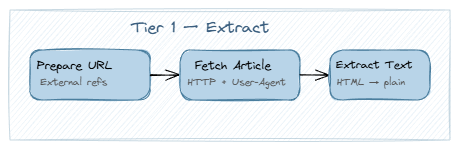
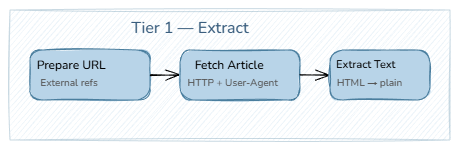
Updated the graphics based on the feedback

diff --git a/docs/README.md b/docs/README.md
@@ -1,8 +1,56 @@
+# Introduction
+
+Threat Intelligence is a fairly superfluous component to security for most individuals or organisations that are growing the security function. This is typically due to cost, scaling it into wider systems, or seeing the true value of running their own solution, when it is baked into anti-virus or provided by a Managed Detection and Response (MDR) provider.
+
+  
+
+This post outlines a modern solution to creating a scalable threat intelligence pipeline that does not compromise on functionality that organisations are implementing in this day and age. Whether you are looking to conduct solo research, proof-of-concept, or a larger team that has matured to the point of requiring a threat intelligence pillar to complement the security program, everyone should have access to threat intelligence at all stages of maturity.
+
+  
+
+The blog post is split into three sections:
+
+1. **System Requirements** - The section highlights the main system requirements of the implementation
+2. **Architecture** - The section focuses on the architectural view of the implementation, limitations, and potential adaptations that can fit into a wider ecosystem that has access to dedicated finances.
+3. **Implementation** - The section focuses on the implementation and the ideas behind each section in more detail
+4. **Technical Challenges** - The section discusses on the technical constraints and workarounds that were encountered during development
+5. **Bibliography** - This section provides hyperlinks to the resources used that aided in the development of this pipeline
+
+The split between the architectural layout and the implementation, is to entice all readers from leadership and design audiences through the architecture overview, as well as, the engineers and researchers who will are looking to use this as a foundation for their own implementation.
+
+All code and system files for the cognitive CTI project can be found at [github.com/jwhitt3r/cognitiveCTI](https://www.blogger.com/u/1/blog/post/edit/8882042398405863179/5023927187995908110?hl=en#).
+
+# System Requirements
+
+The motivation for this project sat with the idea of, could a self-hosted pipeline leveraging automation and artificial intelligence relate to systems built and maintained by an MDR (hey, they're the ones that actively enable this function at scale and sell it, what better role model). A number of constraints were placed on it, this is to ensure that it would enable any individual or teams to implement and adapt to meet the needs they may have. The following constraints were in place:
+
+- Self-hosted
+- Containers
+- Codified
+- Free (ignore electricity)
+- Modular
+
+The minimum resources used for this project, are:
+
+- 32GB RAM
+- GPU (for faster model processing)
+- Docker
+
+The system used in this project was:
+
+- Windows 11 Pro (For Hyper-V)
+- 128GB RAM
+- AMD Ryzen 7950X
+- Nvidia RTX 4070 Ti
+
+The GPU was only used to improve processing, extensive testing occurred using the CPU for its AI processing. However, it is encouraged that the GPU be used for actual more timely intel pipeline.
+
 # Architecture
 
 The following section provides a high-level architectural overview of the pipeline, its components, and how they interact with one another. The diagram is intentionally abstracted away from the implementation detail as to provide an accessible illustration of the system as to allow wider audiences with enough context to understand the system, its purpose, and where it can be adapted to fit into a wider ecosystem. The implementation sections that follow provide the detail for engineers and researchers looking to build on this foundation.
 
 Figure 1 illustrates the end-to-end flow from threat data collection through to output delivery of correlated and summarised threat intelligence.
+
 ![](diagrams/high_level_architecture.png)
 
 ## Intelligence Layer
@@ -285,7 +333,7 @@ Ollama's phi4 at 14B parameters requires approximately 9-10GB of RAM for model
 
 The resolution was to reduce numCtx to 8192, which halved the KV cache memory footprint. The correlation prompt for 37 reports fits within 8K tokens with the compressed report format. For implementations with more available memory or GPU offloading, numCtx can be increased to accommodate larger batches.
 
-Running both llama3.2 and phi4 simultaneously doubles the memory requirement. Setting OLLAMA_MAX_LOADED_MODELS=1 in the Ollama environment ensures one model is unloaded before the other is loaded, at the cost of a ~10 second model swap delay between the analysis and correlation stages.
+Running both llama3.2 and phi4 simultaneously doubles the memory requirement. Setting `OLLAMA_MAX_LOADED_MODELS=1` in the Ollama environment ensures one model is unloaded before the other is loaded, at the cost of a ~10 second model swap delay between the analysis and correlation stages.
 
 ## Article Fetch Reliability
 
@@ -298,3 +346,19 @@ This was the most persistent quality issue we encountered. When presented with m
 The mitigation is multi-layered: the prompt format uses --- REPORT: Exact Title ---headers, the system prompt explicitly forbids numbered references with wrong and correct examples, and the prompt includes an actual title from the current batch. The parse node additionally checks for numbered references in the output and can flag them. With phi4 at temperature 0.3, this combination produces correct titles in the majority of cases, though occasional mismatches still occur and are handled by the fuzzy title matching in the Discord formatter.
 
 _Researchers Note: Title hallucination is a well-documented behaviour in local language models when processing multiple documents. If you are implementing this with a cloud model (Claude, GPT-4o), you may find that a single instruction is sufficient. With local models at the 3-14B parameter range, the repeated reinforcement across system prompt, user prompt, and examples is necessary. However, there maybe further tweaks to the architecture required to scale to meet the enterprise demand._
+
+# Bibliography
+
+[1] - [Best Strategies to Minimize Hallucinations in LLMs: A Comprehensive Guide](https://www.blogger.com/u/1/blog/post/edit/8882042398405863179/5023927187995908110?hl=en#)
+
+[2] - [Bitsight Vulnerability Threat Intelligence](https://www.blogger.com/u/1/blog/post/edit/8882042398405863179/5023927187995908110?hl=en#)
+
+[3] - [MITRE ATT&CK](https://www.blogger.com/u/1/blog/post/edit/8882042398405863179/5023927187995908110?hl=en#)
+
+[4] - [n8n Beginner Course](https://www.blogger.com/u/1/blog/post/edit/8882042398405863179/5023927187995908110?hl=en#)
+
+[5] - [n8n Quick Start Tutorial: Build Your First AI Agent [2026]](https://www.blogger.com/u/1/blog/post/edit/8882042398405863179/5023927187995908110?hl=en#)
+
+[6] - [OpenCTI](https://www.blogger.com/u/1/blog/post/edit/8882042398405863179/5023927187995908110?hl=en#)
+
+[7] - [Self-hosted n8n AI Starter Kit](https://www.blogger.com/u/1/blog/post/edit/8882042398405863179/5023927187995908110?hl=en#)
